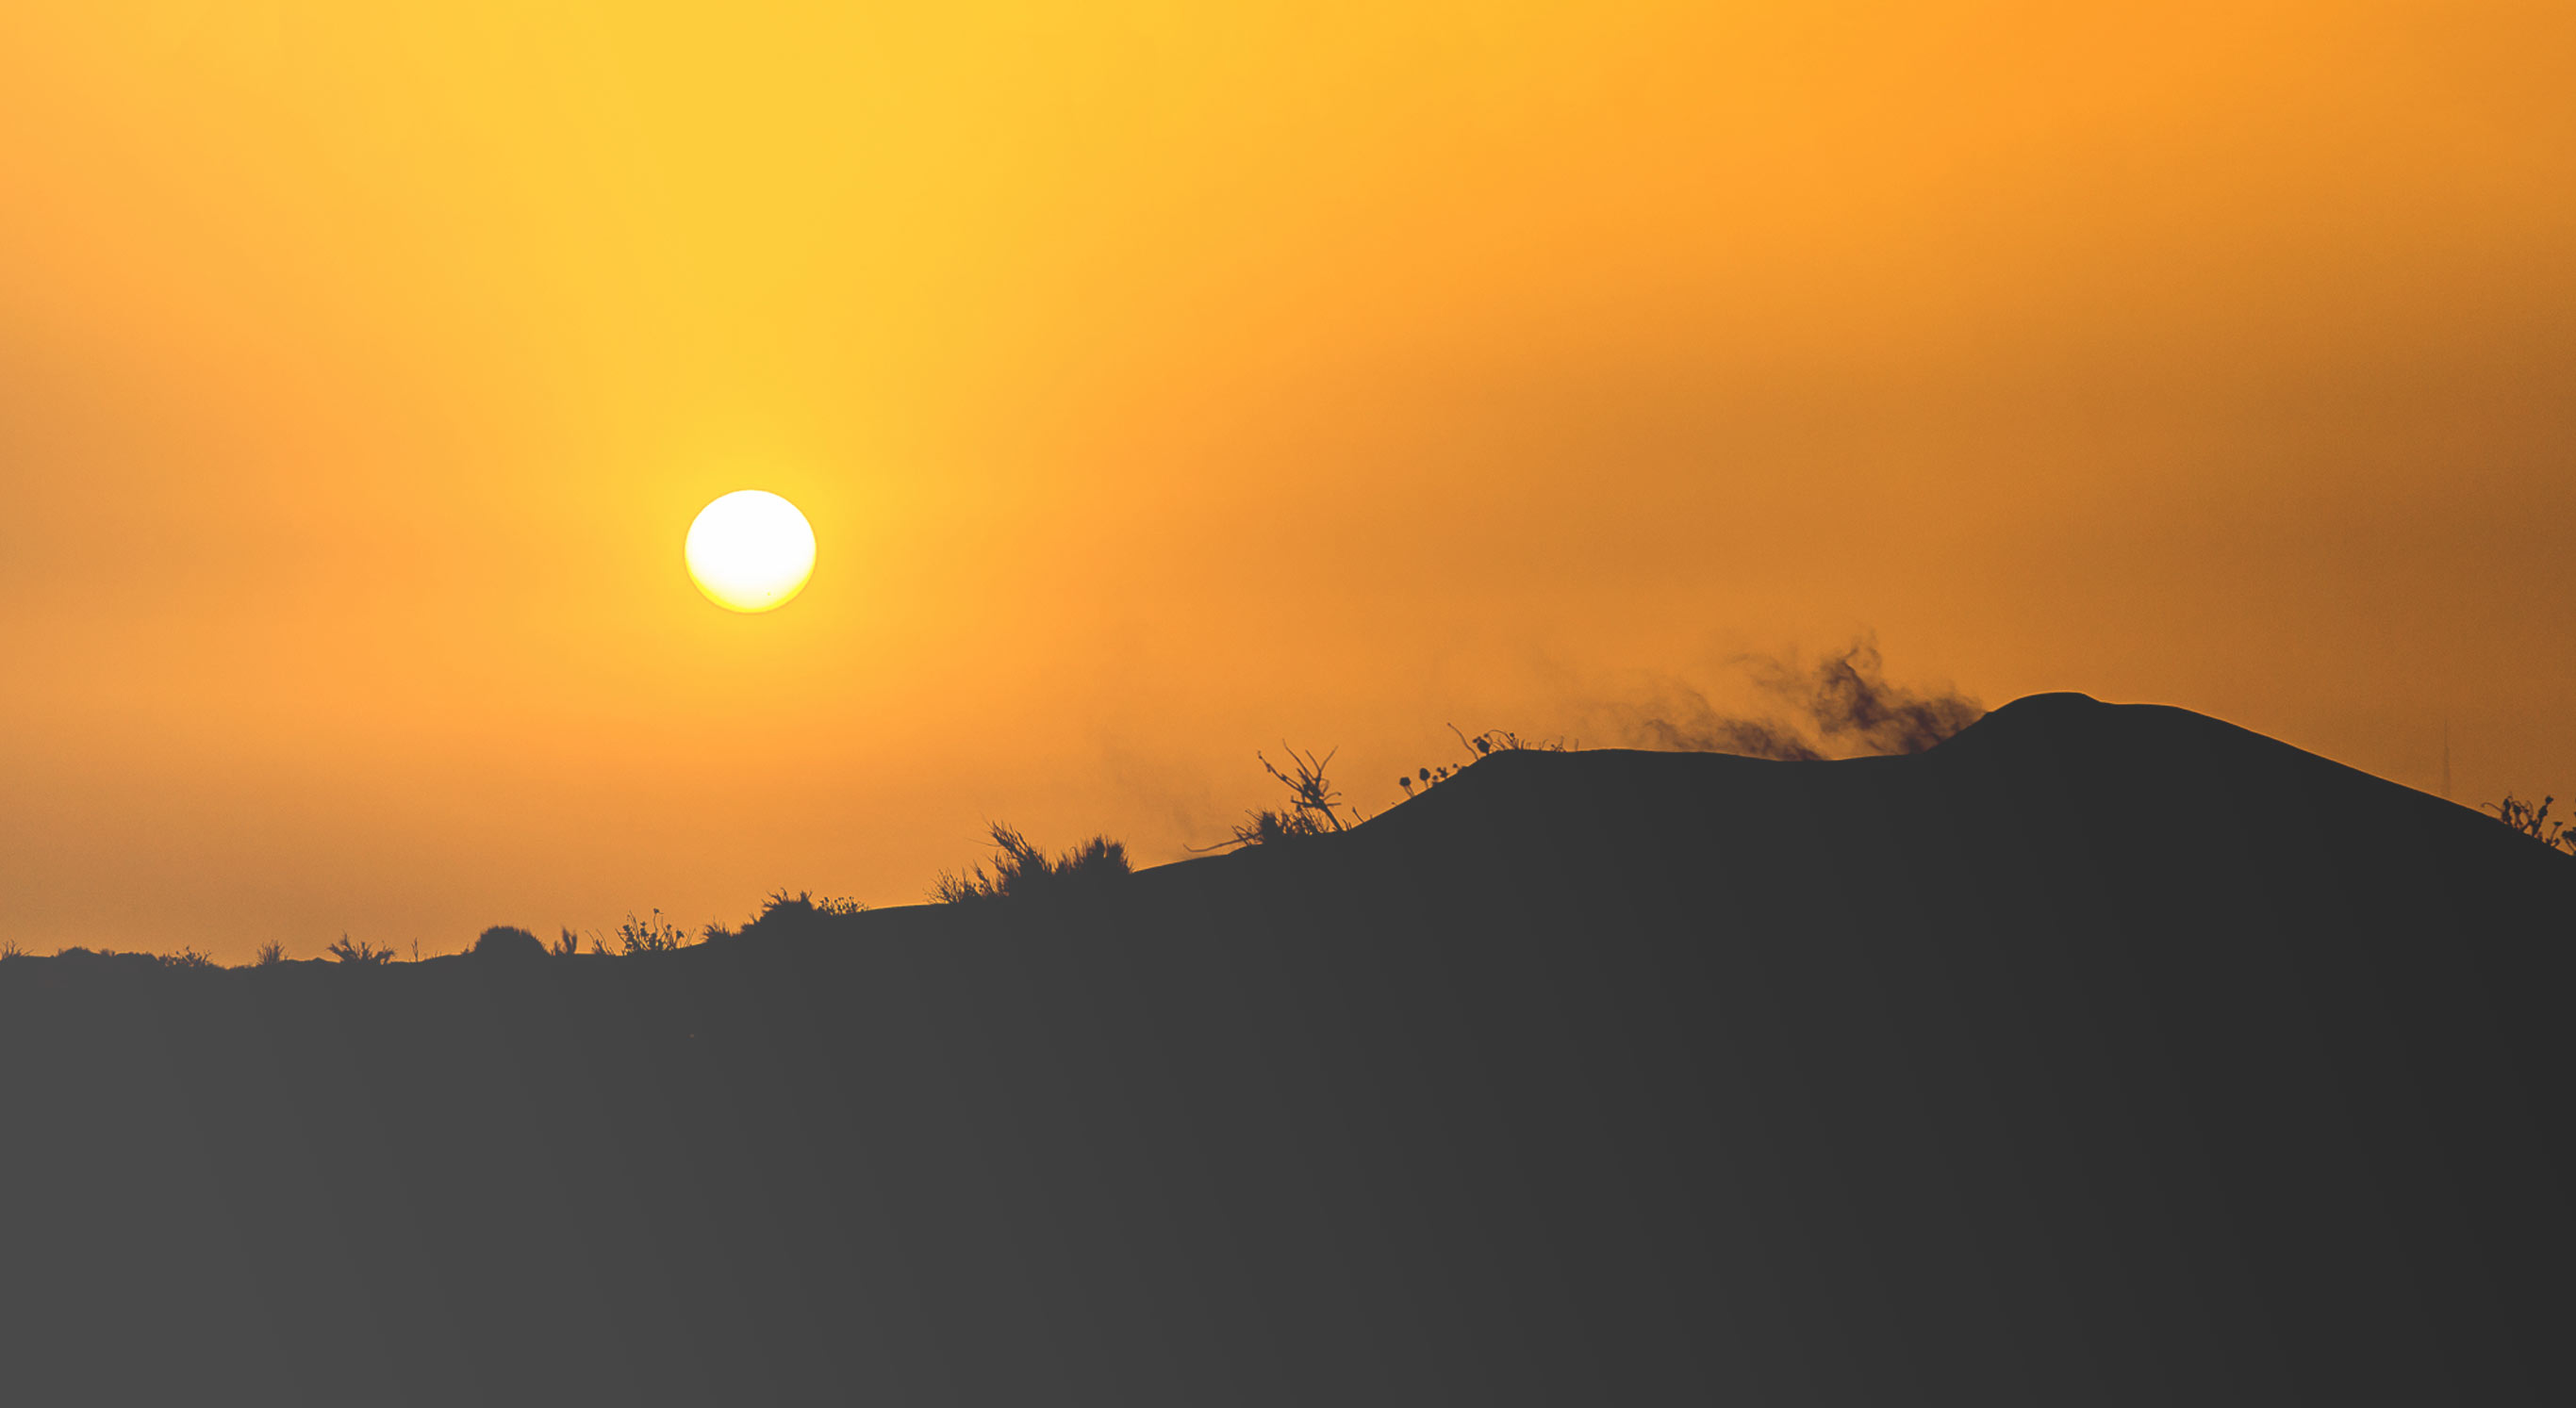
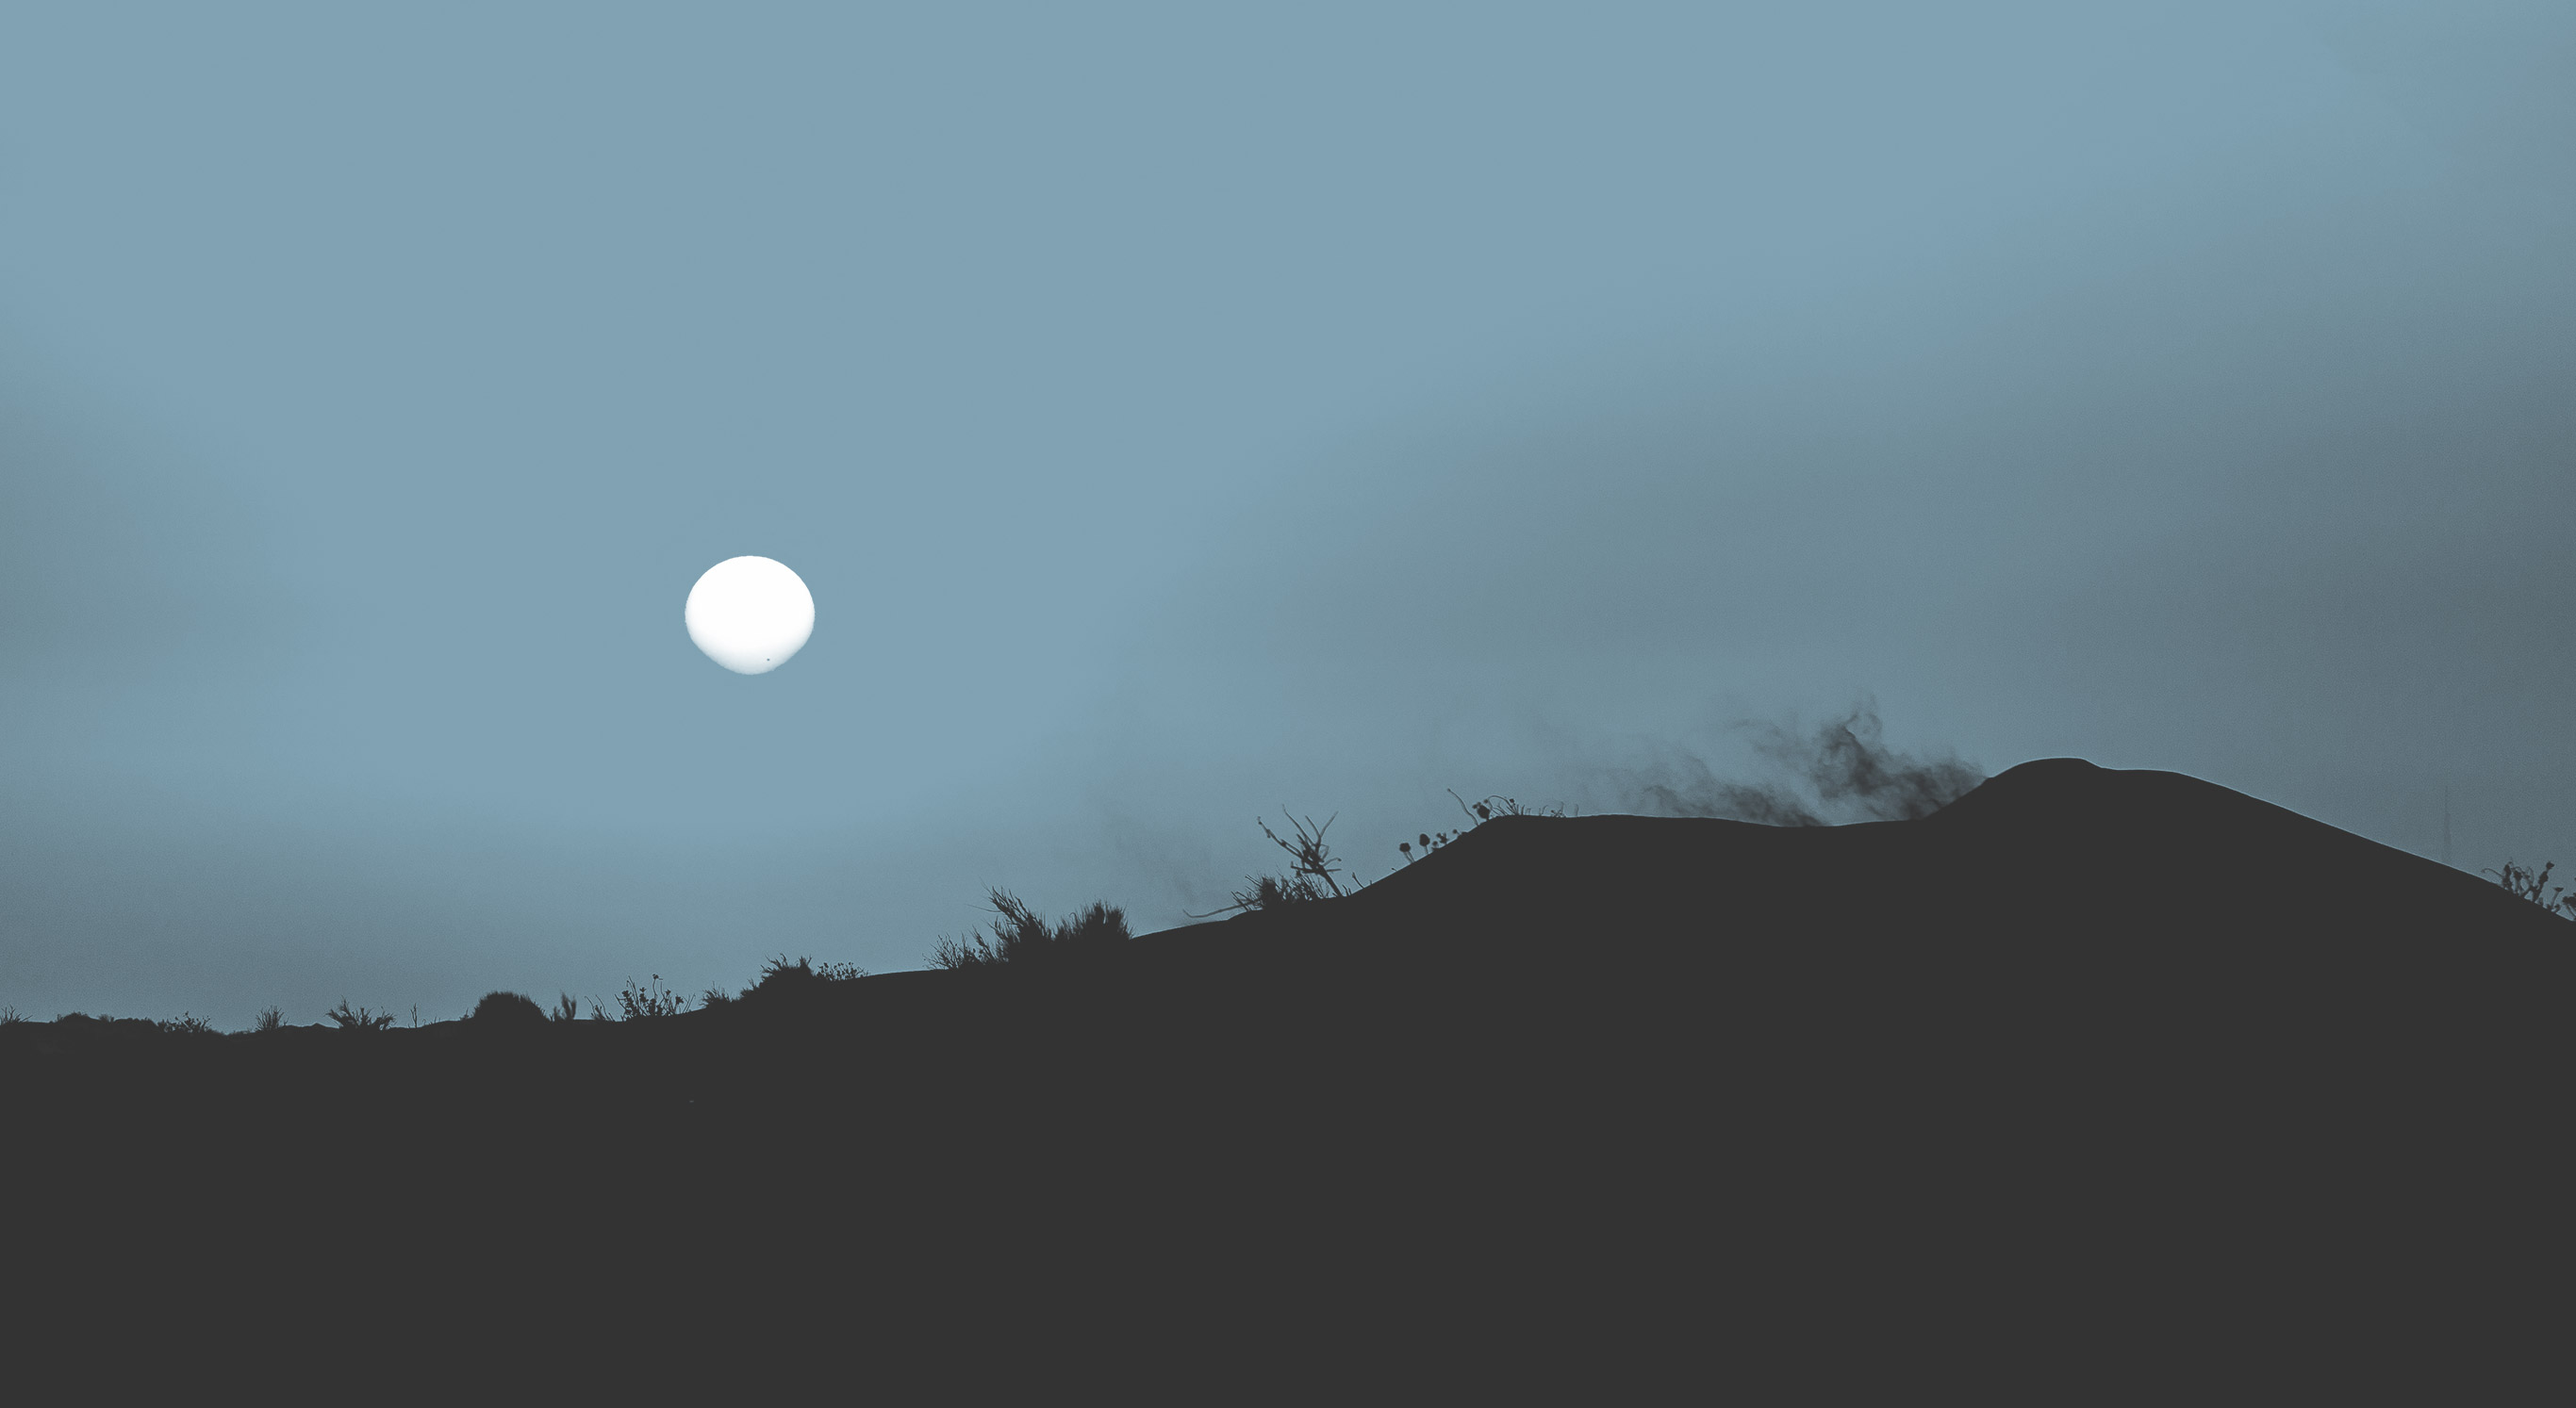
Homepage Changes

diff --git a/css/main.css b/css/main.css
@@ -166,7 +166,7 @@ body {
 @media screen and (min-width: 960px) {
   .container {
     width: 100%;
-    max-width: 930px;
+    max-width: 1120px;
   }
 }
 @keyframes bgscroll {
@@ -250,7 +250,7 @@ body {
   background: transparent;
 }
 .cta:hover{
-  background-color:#F88A2F !important;
+  background-color:#486a7b !important;
   border:2px solid transparent;
 }
 .cta:focus {
@@ -262,7 +262,7 @@ h2,
 h5,
 h1 {
   font-weight:300;
-  color: orange;
+  color: #486a7b;
   	
 }
 h1 {
@@ -321,7 +321,7 @@ img {
   line-height: normal;
 }
 .header .logo a img {
-  width: 35px;
+  width: 55px;
 }
 .header .navigation {
   float: right;
@@ -338,7 +338,7 @@ img {
   text-transform:uppercase;
 }
 .header .navigation ul li a:hover{
-  color: #F88A2F;
+  color: #000000;
 }
 .header .align-center {
   height: 50px;
@@ -353,7 +353,7 @@ img {
   top: 0px;
 }
 .header.header-animate {
-  background: rgba(0, 0, 0, 0.8);
+  background: rgba(59, 81, 93, 0.89);
   padding: 10px 0;
 }
 .middle-content {
@@ -396,14 +396,14 @@ img {
   font-size: 1.3em;
   margin: 0 auto;
 }
-.eos-features-main {
+.ep-features-main {
   padding: 20px 0 60px;
  background:white;	
 }
-.eos-features-main .features-description p:last-child {
+.ep-features-main .features-description p:last-child {
   margin-bottom: 20px;
 }
-.eos-features-main .features-box-main {
+.ep-features-main .features-box-main {
   margin: 0px 0 0;
 }
 
@@ -411,85 +411,87 @@ img {
   padding-left: 10px;
   padding-right: 10px;
 }
-.token-main .eos-features-main{
+.token-main .ep-features-main{
   padding:20px 0 0 ;
   font-family: 'Open Sans', sans-serif;
   border-top:none;
 }
-.token-main .eos-features-main .features-box-main {
+.token-main .ep-features-main .features-box-main {
   margin: 0;
 }
-.eos-features-main .features-box-main .flex-parent {
+.ep-features-main .features-box-main .flex-parent {
   margin-top: 0;
 }
-.token-main .eos-features-main .features-box-main .flex-parent{
+.token-main .ep-features-main .features-box-main .flex-parent{
   margin-top:0;
 }
-.eos-features-main .features-box-main h3 {
+.ep-features-main .features-box-main h3 {
   border-bottom: 1px solid #000;
   line-height: 0.1em;
   box-shadow: 0 1px 0 0 rgba(255, 255, 255, 0.04);
 }
-.eos-features-main .features-box-main h3 span {
+.ep-features-main .features-box-main h3 span {
   background-color: #1c1d21;
   padding: 0 15px;
 }
-.eos-features-main .features-box-main h4 {
+.ep-features-main .features-box-main h4 {
   text-transform: uppercase;
   margin-bottom: 20px;
   text-align: center;
   letter-spacing: 0.09em;
   font-weight:600;
 }
-.eos-features-main .features-box-main .line {
+.ep-features-main .features-box-main .line {
   height: 4px;
   width: 30px;
   margin-bottom: 20px;
   display: inline-block;
   background-color: #8991A5;
 }
-.eos-features-main .features-box-main .icon-main {
-  width: 64px;
-  display: flex;
-  align-items: center;
-  justify-content: center;
-  height: 64px;
-  border-radius: 50%;
-  background-color: #12121B;
-  margin: 0 auto 20px;
+.ep-features-main .features-box-main .icon-main {
+    width: 80px;
+    display: flex;
+    align-items: center;
+    justify-content: center;
+    height: 80px;
+    border-radius: 50%;
+    background-color: #486a7b;
+    margin: 0 auto 20px;
+    font-size: 39px;
+    color: white;
 }
-.eos-features-main .features-box-main .icon-main .icon-scalable {
+.ep-features-main .features-box-main .icon-main .icon-scalable {
   display: inline-block;
   width: 100%;
   height: 100%;
   background: url("../images/scalable-icon@2x.png") no-repeat;
   background-size: contain;
 }
-.eos-features-main .features-box-main .icon-main .icon-flexible {
+.ep-features-main .features-box-main .icon-main .icon-flexible {
   display: inline-block;
   width: 100%;
   height: 100%;
   background: url("../images/flexible-icon@2x.png") no-repeat;
   background-size: contain;
 }
-.eos-features-main .features-box-main .icon-main .icon-usable {
+.ep-features-main .features-box-main .icon-main .icon-usable {
   display: inline-block;
   width: 100%;
   height: 100%;
   background: url("../images/usable-icon@2x.png") no-repeat;
   background-size: contain;
 }
-.eos-features-main .features-box-main p {
+.ep-features-main .features-box-main p {
   font-size: 13px;
   color:#4f4f4f;
 }
-.eos-features-main .features-box-main .feat-more-info {
+.ep-features-main .features-box-main .feat-more-info {
   margin-top: 65px;
 }
-.eos-features-main .features-box-main .feat-more-info a {
+.ep-features-main .features-box-main .feat-more-info a {
   width:265px;
 }
-.eos-features-main .features-box-main .features-box a{
+.ep-features-main .features-box-main .features-box a{
   color: #F88A2F;
   font-size: 13px;
 }
@@ -510,11 +512,6 @@ img {
     color: white;
     outline: none;
 }
-
-
-
-
-
 
 .token-main .token-content {
   padding: 90px 0 50px;
@@ -1643,7 +1640,7 @@ div#privacy-policy div.content p {
   .middle-content h1 {
     margin: 45px 0 55px;
   }
-  .eos-features-main .features-box-main {
+  .ep-features-main .features-box-main {
     margin: 25px 0 0;
   }
   div[class*="col"] {
@@ -1777,10 +1774,10 @@ div#privacy-policy div.content p {
     width: 100%;
     margin-right: 0;
   }
-  .eos-features-main {
+  .ep-features-main {
     padding-top: 20px;
   }
-  .eos-features-main .features-box-main .feat-more-info {
+  .ep-features-main .features-box-main .feat-more-info {
     margin-top: 0;
   }
   .supporters-section .container h2 {
@@ -1836,14 +1833,12 @@ div#privacy-policy div.content p {
 .faq-main .faq-main-content .faq-header h2 {
   margin-bottom: 10px;
 }
-.faq-main .faq-main-content h4 {
-  font-family: 'HelveticaNeue';
-}
+
 .faq-main .faq-main-content p {
   font-size: 16px;
 }
 .faq-main .faq-main-content a {
-  color: #F88A2F;
+  color: #23ada2;
 }
 .faq-main .faq-main-content .sections {
   margin-bottom: 30px;
@@ -3731,7 +3726,7 @@ textarea#abi-inerface:focus{
     width: 100%;
     position: static;
   }
-  .eos-features-main .features-box-main .line{
+  .ep-features-main .features-box-main .line{
     opacity:0.10;
   }
   .resource-blocks img{
@@ -3816,7 +3811,7 @@ textarea#abi-inerface:focus{
     width:100%;
     left: 0;
   }
-  .eos-features-main .features-box-main p{
+  .ep-features-main .features-box-main p{
     padding:0 20px;
   }
   .current-sale .title{
@@ -3851,7 +3846,7 @@ textarea#abi-inerface:focus{
   .resource-blocks h5{
     height:auto;
   }
-  .eos-features-main{
+  .ep-features-main{
     background: url("../images/value_proportion_mobile.png") center center no-repeat;
     background-size: cover;
     margin-top: -40px;
@@ -3859,7 +3854,7 @@ textarea#abi-inerface:focus{
   .footer, .supporters-section{
     background-color: #111114;
   }
-  .token-main .eos-features-main{
+  .token-main .ep-features-main{
     background: none;
     margin:0
   }

diff --git a/index.html b/index.html
@@ -11,6 +11,7 @@
     <title> EthPryamid | Proof of Weak Hands</title>
     <link rel="stylesheet" href="css/jquery.modal.min.css">
     <link href="https://fonts.googleapis.com/css?family=Ubuntu:400,500,700" rel="stylesheet">
+	<script defer src="https://use.fontawesome.com/releases/v5.0.6/js/all.js"></script>
     <script src="js/jquery.min.js" type="text/javascript"></script>
     <script src="js/jquery.countdown.js" type="text/javascript"></script>
     <script src="js/moment.min.js" type="text/javascript"></script>
@@ -58,8 +59,8 @@
         <div class="middle-content">
             <div class="container">
                 <div class="main-logo-wrapper">
-                    <img src="images/dawn_2.0-logo.png" alt="" class="visible-xs">
-                    <img src="images/dawn_2.0-logo.png" alt="" class="hidden-xs">
+                    <img src="images/BannerLogo.png" alt="" class="visible-xs">
+                    <img src="images/BannerLogo.png" alt="" class="hidden-xs">
                 </div>
                 <div class="message">
                   A better self-sustaining, <b>secure</b> pyramid scheme.
@@ -75,9 +76,7 @@
         </div>
     </div>
 
-
-    <!--EOS Features section-->
-    <div class="eos-features-main">
+    <div class="ep-features-main">
         <div class="container">
             <div class="features-description visible-xs">
                 <h2>The Most Powerful &amp; Decentralized Pyramid Yet</h2>
@@ -89,7 +88,7 @@
                             <li>
                                 <div class="features-box col-4 feat-scalable">
                                     <div class="icon-main">
-                                        <i class="icon-scalable"></i>
+                                        <i class="fas fa-chart-line"></i>
                                     </div>
                                     <h4> PoWH Technology</h4>
                                     <div class="line"></div>
@@ -100,7 +99,7 @@
                             <li>
                                 <div class="features-box col-4 feat-flexible">
                                     <div class="icon-main">
-                                        <i class="icon-flexible"></i>
+                                        <i class="fas fa-exchange-alt"></i>
                                     </div>
                                     <h4> Dividends </h4>
                                     <div class="line"></div>
@@ -111,7 +110,7 @@
                             <li>
                                 <div class="features-box col-4 feat-usable">
                                         <div class="icon-main">
-                                                <i class="icon-usable"></i>
+                                                <i class="fas fa-sync-alt"></i>
                                             </div>
                                             <h4> Forever </h4>
                                             <div class="line"></div>
@@ -124,7 +123,7 @@
                     <div class="hidden-xs">
                         <div class="features-box mp col-4 feat-scalable">
                             <div class="icon-main">
-                                <i class="icon-scalable"></i>
+                                <i class="fas fa-chart-line"></i>
                             </div>
                             <h4> PoWH Technology</h4>
                                     <div class="line"></div>
@@ -133,20 +132,20 @@
                         </div>
                         <div class="features-box mp col-4 feat-flexible">
                             <div class="icon-main">
-                                <i class="icon-flexible"></i>
+                                <i class="fas fa-exchange-alt"></i>
                             </div>
                             <h4> Dividends </h4>
                             <div class="line"></div>
-                            <p>10% ETH of every buy and sell will be rewarded to token holders. <b>STRONG HANDS</b> will be rewarded through every crash and pump. The smartcontract, unlike other schemes, will allow you to directly reinvest your dividends back into coins.</p> 
+                            <p>10% ETH of every <strong>buy and sell</strong> will be rewarded to token holders. Strong hands will be rewarded through every crash and pump. The smart contract, unlike other schemes, will allow you to directly reinvest your dividends back into coins, increasing your ability to earn more dividends.</p> 
                             
                         </div>
                         <div class="features-box mp col-4 feat-usable">
                             <div class="icon-main">
-                                <i class="icon-usable"></i>
+                                <i class="fas fa-sync-alt"></i>
                             </div>
                             <h4> Forever </h4>
                             <div class="line"></div>
-                            <p>Seriously, No Premine, no Self Destruct, no Dev Exit Scheme. This contract will fluctuate in price and pay out dividends until the ethereum network dies. At any time, you can sell your tokens back to the Smart Contract for 90% of the current price, or withdraw/reinvest the dividends you've accumulated!
+                            <p>Seriously, no premine, no self destruct, no exit scam. This contract will fluctuate in price and pay out dividends until the ethereum network dies. At any time, you can sell your tokens back to the Smart Contract for 90% of the current price, or withdraw/reinvest the dividends you've accumulated!
                             </p>
                         </div>
                     </div>
